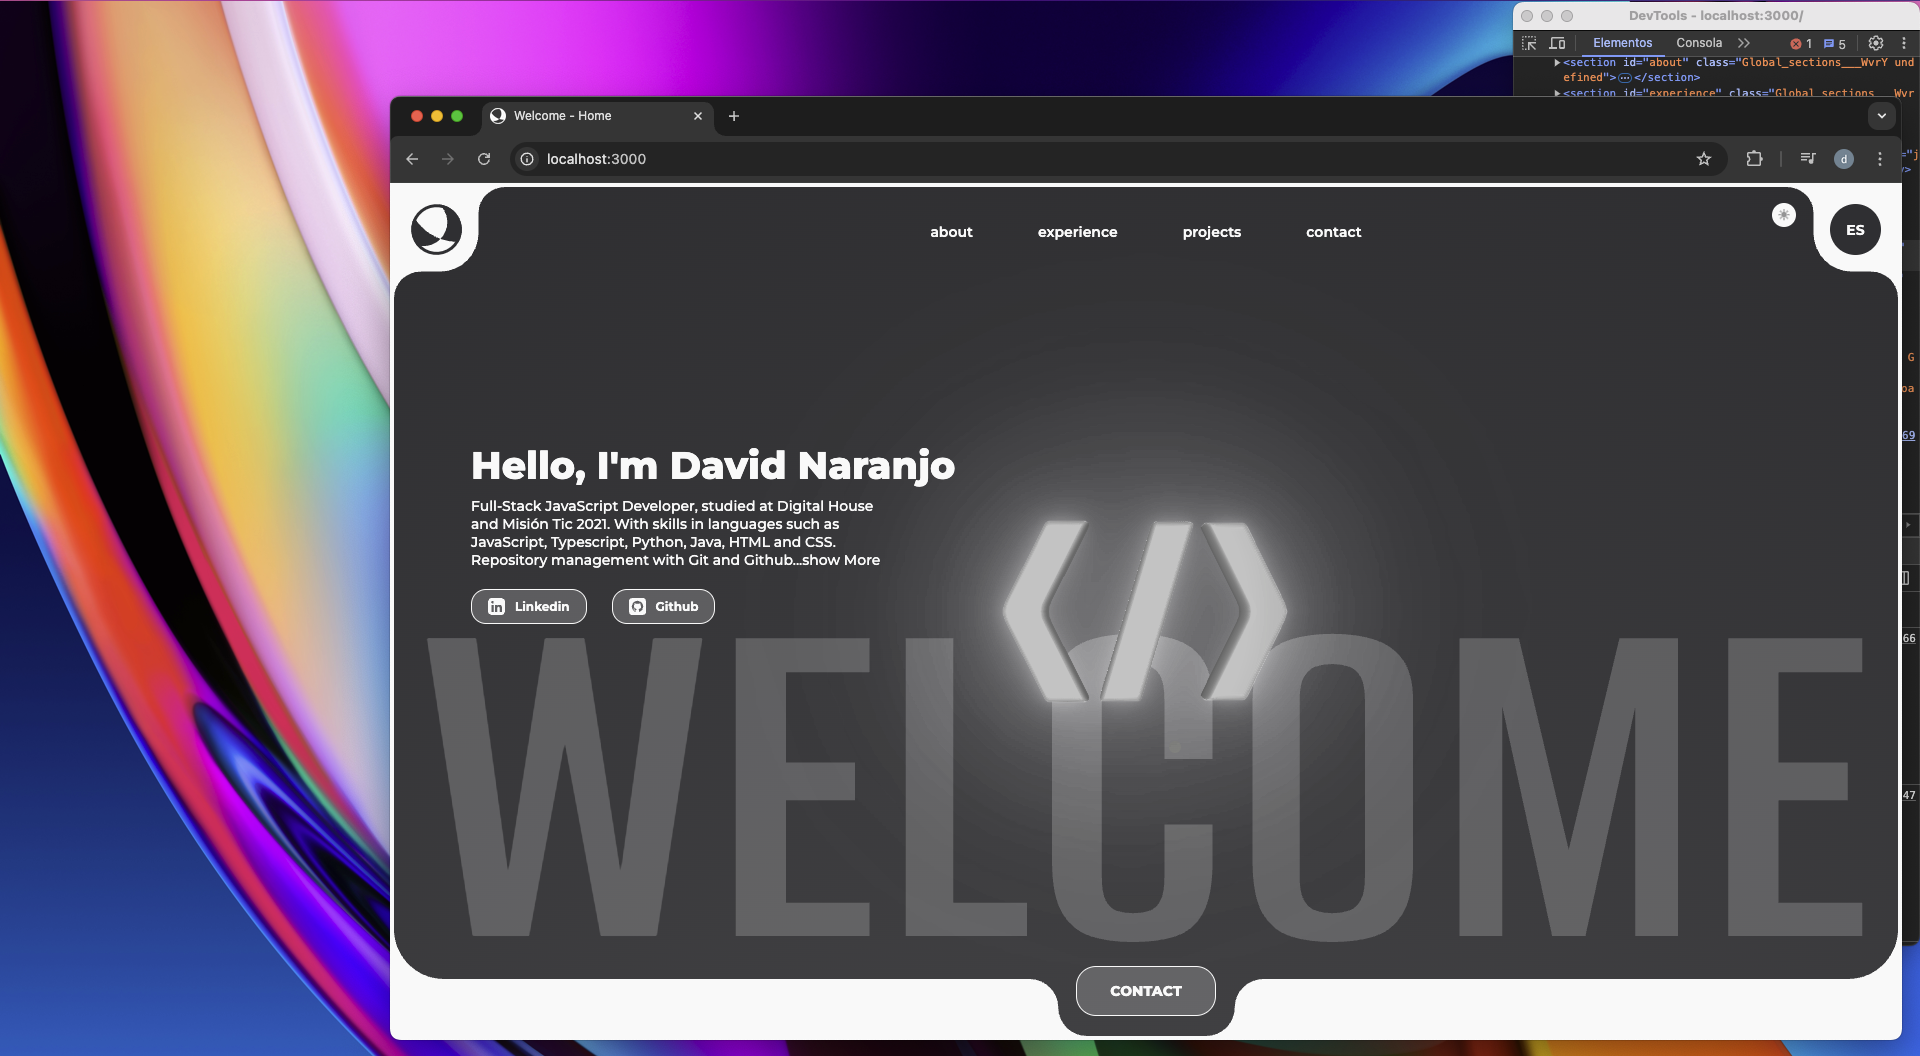
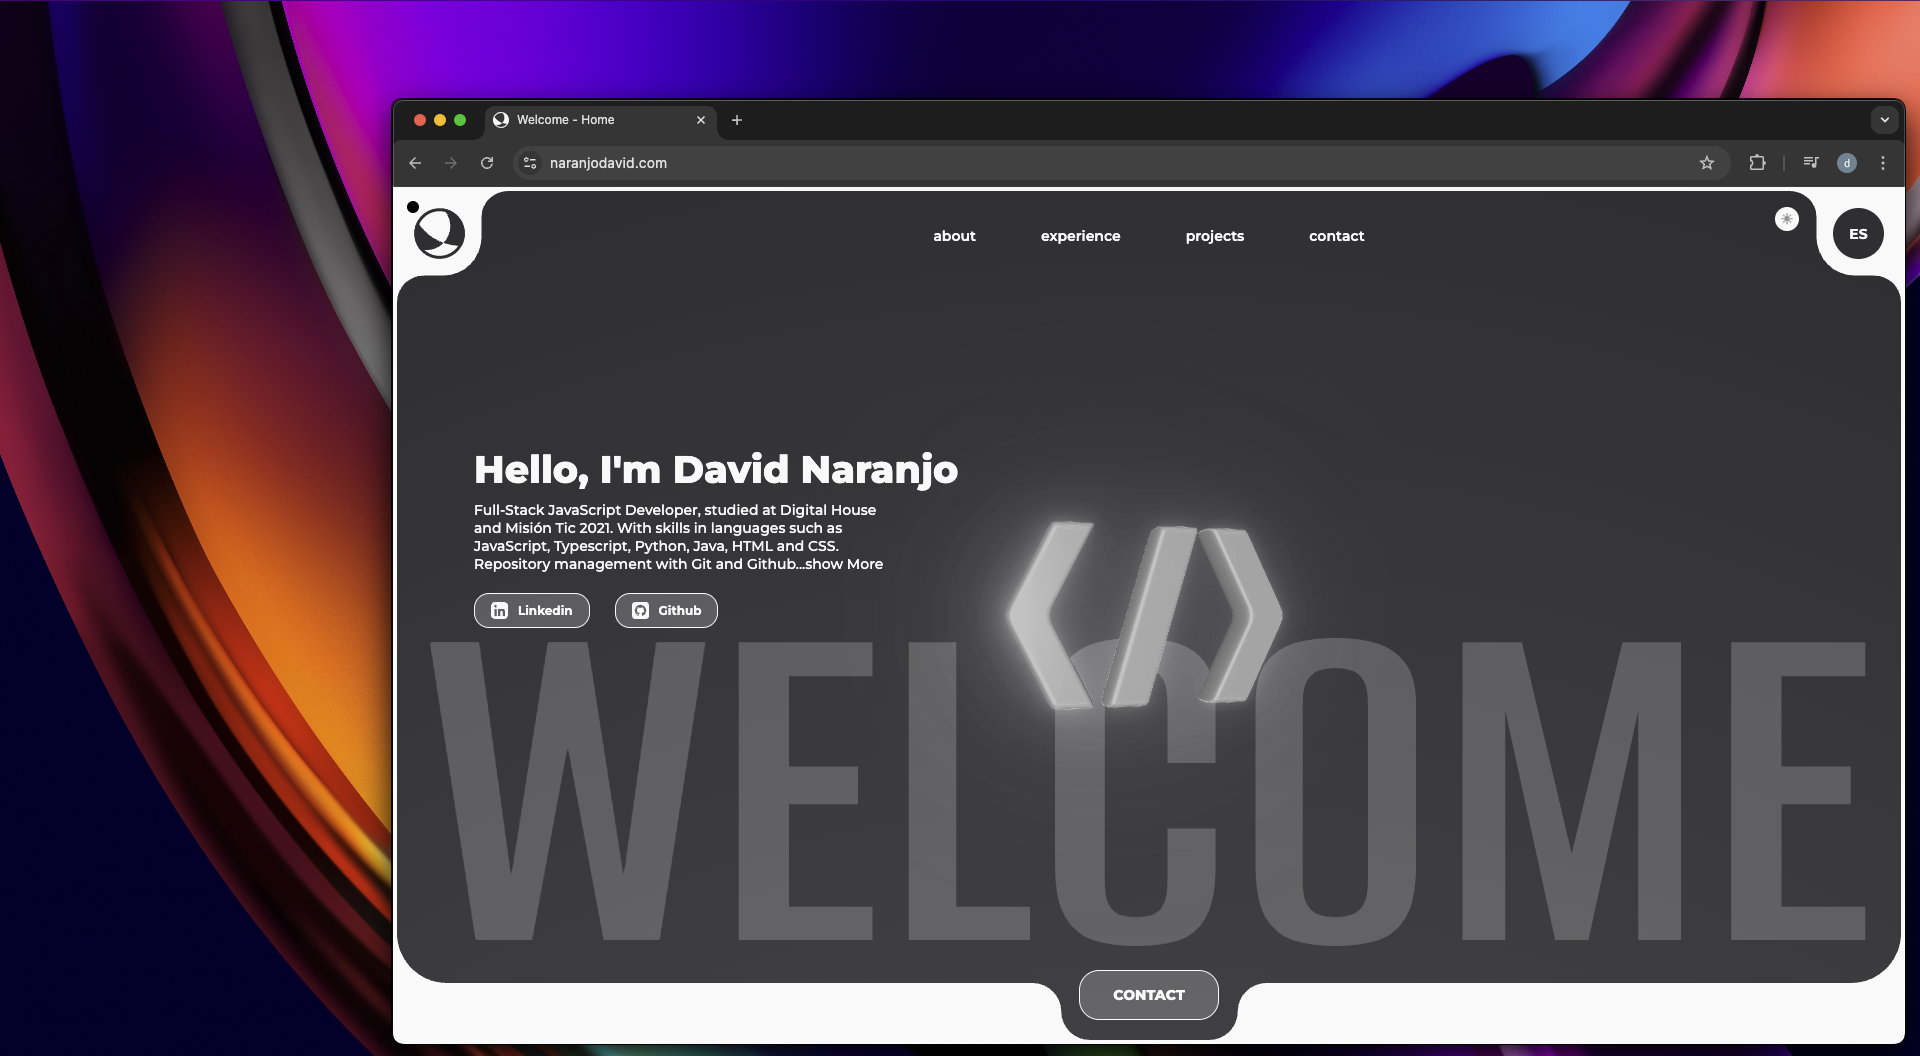
layout( project ): cards styles

diff --git a/helpers/HelperSlider/HelperSlider.tsx b/helpers/HelperSlider/HelperSlider.tsx
@@ -26,7 +26,7 @@ export const HelperSlider = ({
 }: HelperSliderProps) => {
   const { language, setIsCursorHover } = useGlobal();
   const sliderRef = useRef<HTMLDivElement>(null);
-  const cursorText = ["Click", "Click"]
+  const cursorText = ["Click", "Click"];
   return (
     <div
       className={`${
@@ -79,7 +79,10 @@ export const HelperSlider = ({
         )}
       </div>
       {isProject && (
-        <p>{imagePropsProject && imagePropsProject.title[language]}</p>
+        <h4>{imagePropsProject && imagePropsProject.title[language]}</h4>
+      )}
+      {isProject && (
+        <p>{imagePropsProject && imagePropsProject.description[language]}</p>
       )}
     </div>
   );

diff --git a/helpers/HelperSlider/HelperSlider.module.css b/helpers/HelperSlider/HelperSlider.module.css
@@ -13,13 +13,26 @@
 
 .helperProject {
     width: min-content;
+    min-height: 340px;
     margin-bottom: 2rem;
+    padding: .6rem;
+    padding-bottom: 1rem;
+    border-radius: 24px;
+    box-shadow: var(--shadow)
+}
+
+.helperProject h4 {
+    padding: 0px 0.4rem 0rem 0.4rem;
+    margin: 1.4rem 0rem .4rem 0rem;
+    font-size: var(--text16);
+    font-weight: var(--weight800);
+    color: var(--color3);
 }
 
 .helperProject p {
-    margin-top: 1rem;
+    padding: 0px 0.4rem 0rem 0.4rem;
     font-size: var(--text14);
-    font-weight: var(--weight600);
+    font-weight: var(--weight500);
     color: var(--colorCaption);
     text-wrap: balance;
 }

diff --git a/db/info.ts b/db/info.ts
@@ -85,6 +85,7 @@ export const infoImagesAbout = dbImages.imagesAbout.map((item) => {
 
 export interface ImageProjectProps {
   title: string[];
+  description: string[];
   images: string[];
   url: string;
   type: string;
@@ -93,6 +94,7 @@ export interface ImageProjectProps {
 export const infoImagesProject = dbImages.imagesProject.map((item) => {
   const image: ImageProjectProps = {
     title: item.title,
+    description: item.description,
     images: item.image,
     url: item.url,
     type: item.type,

diff --git a/app/globals.css b/app/globals.css
@@ -32,6 +32,7 @@
       rgba(250, 250, 250, 1) 0%,
       rgba(250, 250, 250, 0) 100%);
   --colorHeader: #696969;
+  --shadow: 10px 10px 10px #0000001f, -10px -10px 10px #00000009;
 
   /* text size */
   --text10: 0.625rem;
